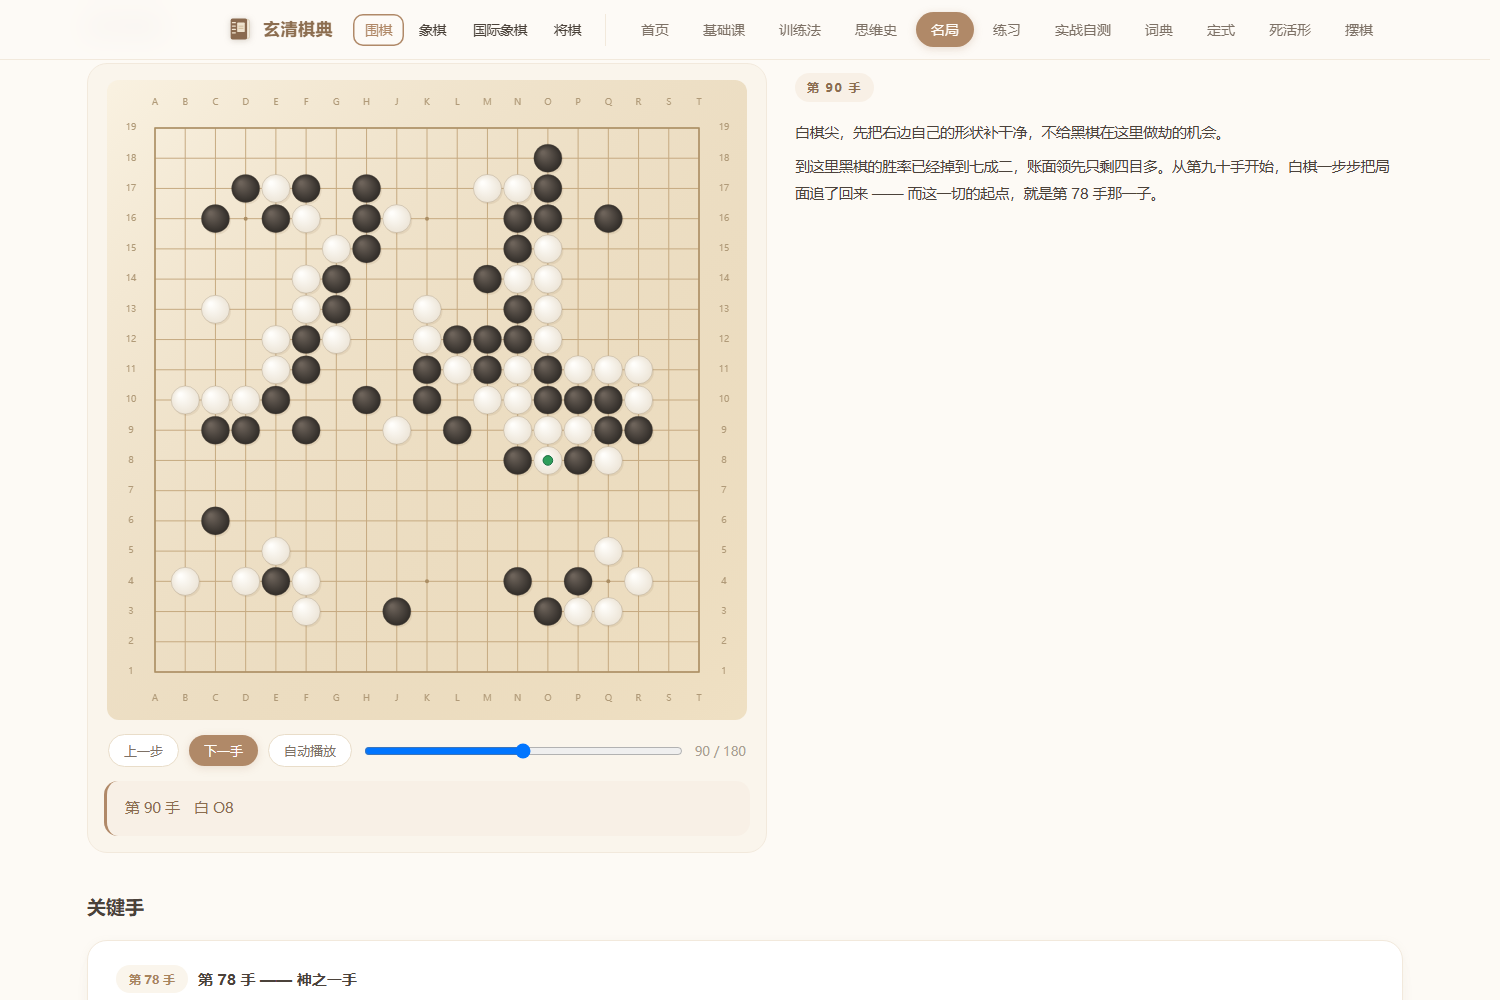
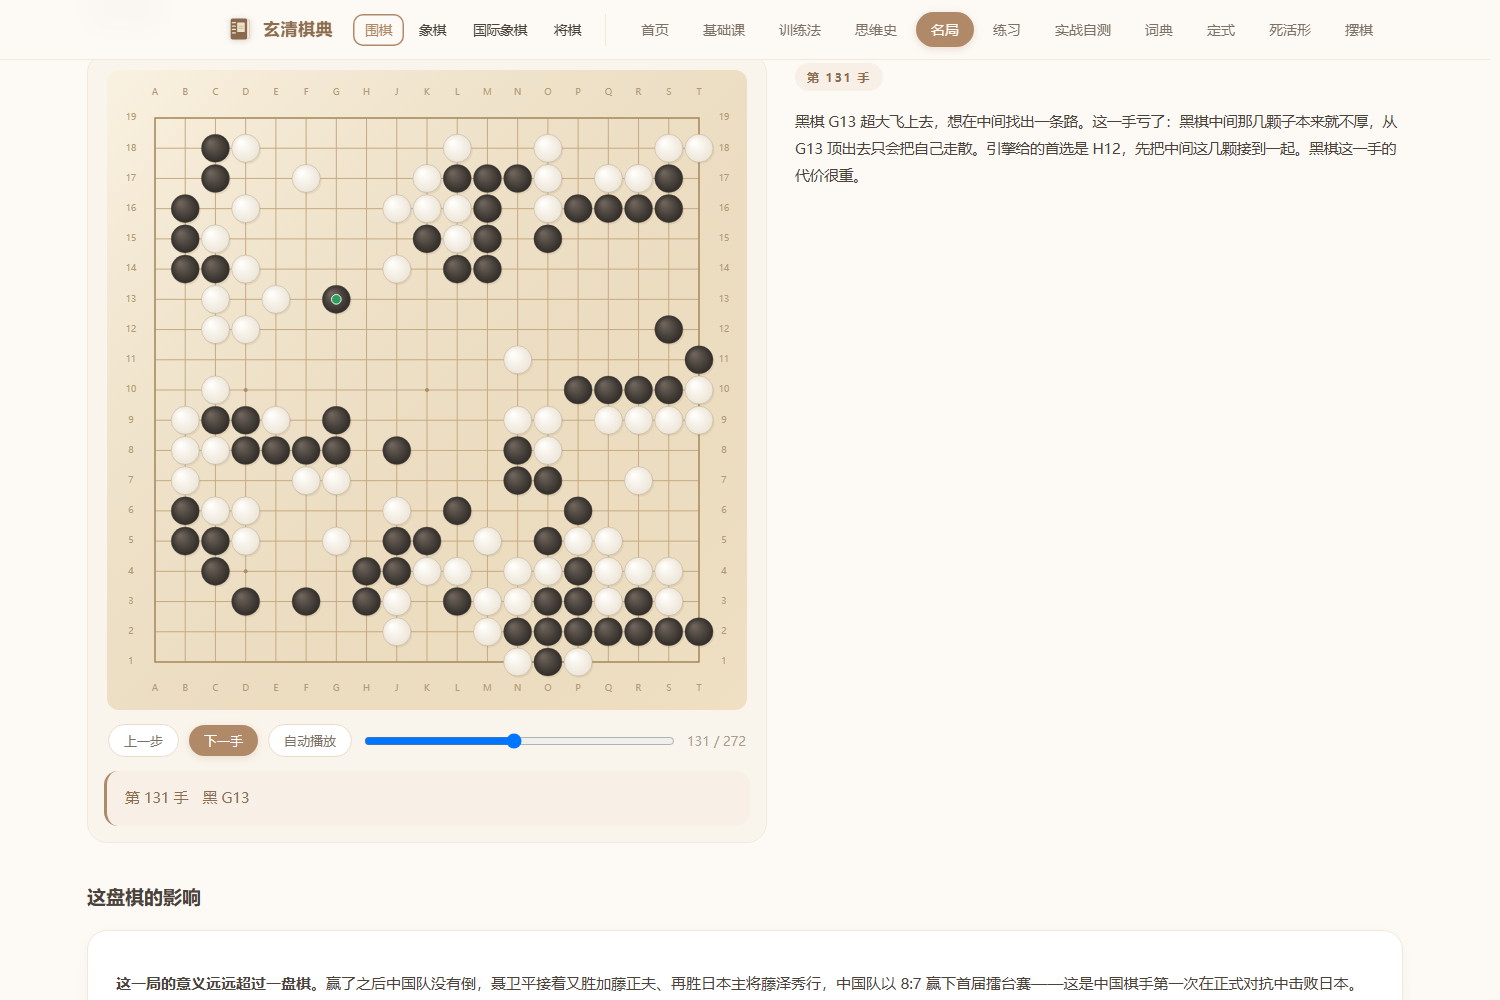
截图换成聂卫平 vs 小林光一「冲天之战」（中日擂台赛第 13 局）
用户指出这一局本来就有（在名局列表里，id=nw1）—— 我先前搜「xxx vs xxx」
格式时漏了它，误判成「未启用数据」。重新核对：它在 games_extra.js 且已接进列表。

这张比上一张更适合做门面：
- 1985 年中国棋手第一次击败日本超一流，题材本身抓人
- 停在 131/272 手的中盘，棋形与攻防都看得清
- 画面里同时露出「这盘棋的影响」那段（8:7 赢下首届擂台赛）

diff --git a/README.md b/README.md
@@ -23,11 +23,14 @@
 
 ## 里面长什么样
 
-![名局详解：李世石 vs AlphaGo 第四局「神之一手」](docs/screenshot.png)
+![名局详解：聂卫平 vs 小林光一 · 中日擂台赛第 13 局](docs/screenshot.png)
 
-*名局详解 —— 李世石 vs AlphaGo 第四局，第 90 手。右边跟着这一手的解说，
-下面还有「关键手」把第 78 手那记「神之一手」标出来。棋盘可以逐手走，
-自动播放也行。*
+*名局详解 —— 聂卫平 vs 小林光一「冲天之战」，第 131 手（黑 G13）。
+右边跟着这一手的解说，讲这一手为什么在中腹挺住、从 G13 顶出去扳粘；
+下面还有「这盘棋的影响」——赢了之后中国队没有倒，8:7 赢下首届擂台赛。*
+
+每一手都能逐手走，也有逐段解说与关键手标出。另有李世石 vs AlphaGo 第五局、
+柯洁、李世石、申真谞、阿含与柯洁的对局，以及古代与日本的经典名局。
 
 其他板块：基础课（64 课）· 训练法 · 思维史 · 练习（77 道带推理）·
 词典 · 定式 · 死活形 · 摆棋 · 实战自测。
